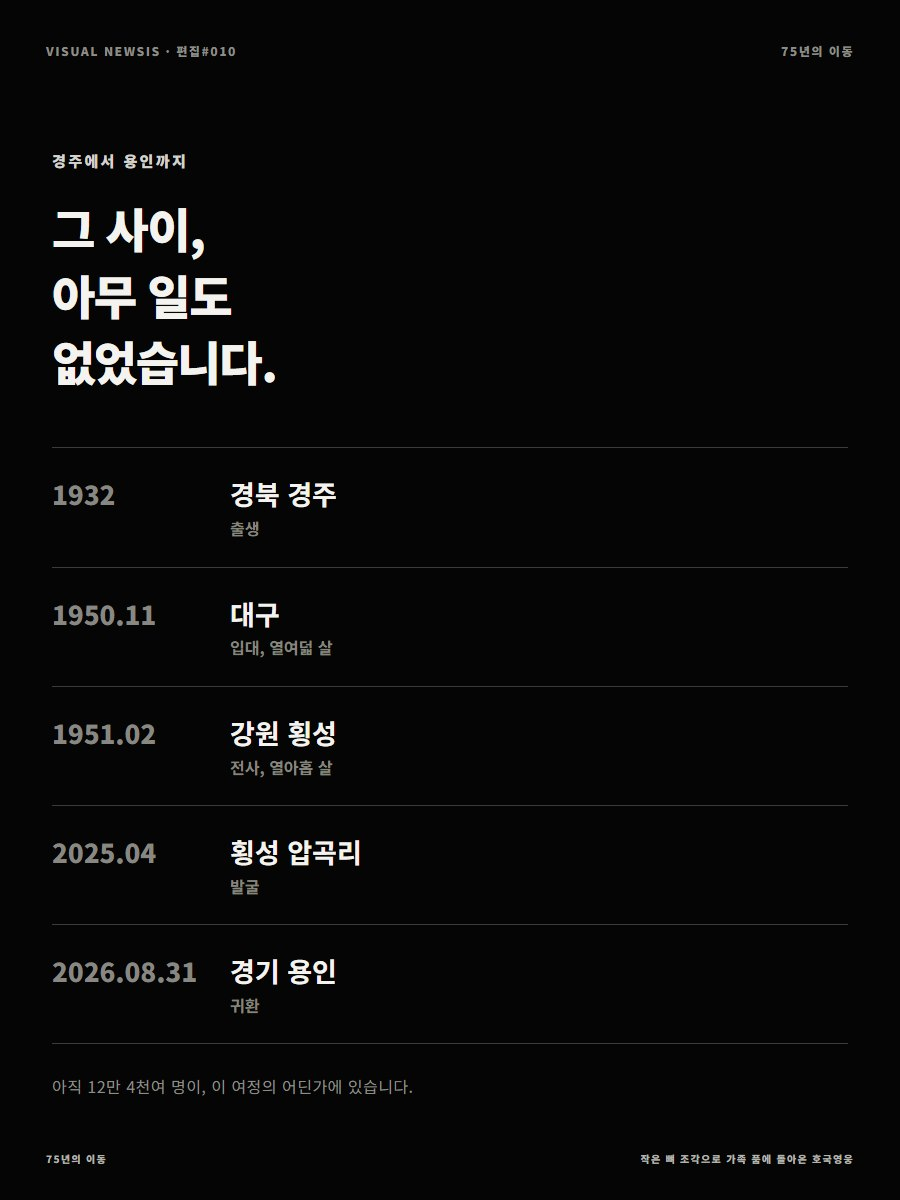
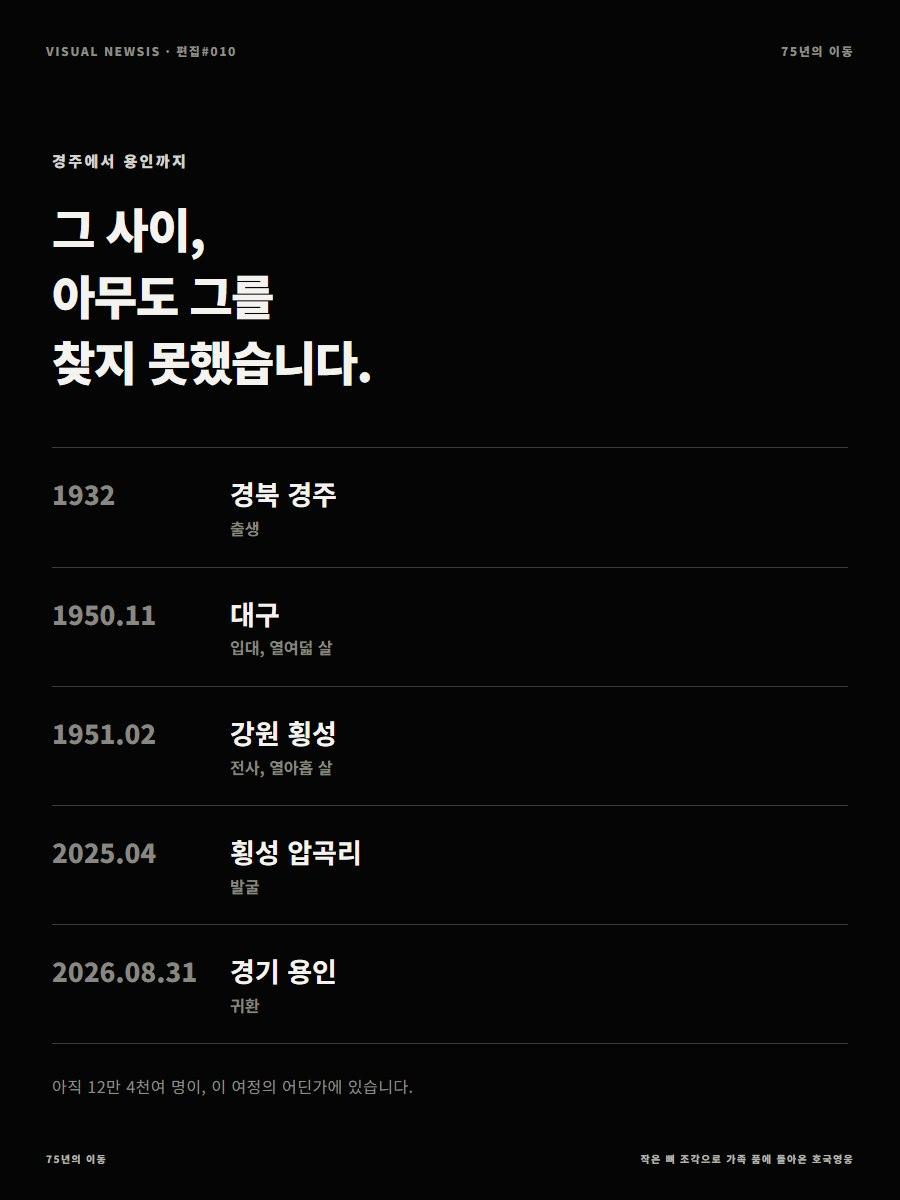
Fix ambiguous lead line on homecoming portal panel 3
"그 사이, 아무 일도 없었습니다" contradicted the timeline shown right
below it (enlistment, death, excavation, homecoming all did happen).
Changed to "아무도 그를 찾지 못했습니다" so it reads as the specific
unresolved wait rather than a blanket "nothing happened" claim.

Changed region(s): [[0.0622, 0.2158, 0.4044, 0.3392]]

diff --git a/portal/homecoming/index.html b/portal/homecoming/index.html
@@ -27,7 +27,7 @@
   </section>
   <section class="panel portrait p3" data-panel="3">
     <div class="top"><span>VISUAL NEWSIS · 편집#010</span><span>75년의 이동</span></div>
-    <div class="copy"><div class="kicker">경주에서 용인까지</div><div class="lead">그 사이,<br>아무 일도<br>없었습니다.</div><div class="records">
+    <div class="copy"><div class="kicker">경주에서 용인까지</div><div class="lead">그 사이,<br>아무도 그를<br>찾지 못했습니다.</div><div class="records">
       <div class="record"><div class="year">1932</div><div class="statement">경북 경주<span>출생</span></div></div>
       <div class="record"><div class="year">1950.11</div><div class="statement">대구<span>입대, 열여덟 살</span></div></div>
       <div class="record"><div class="year">1951.02</div><div class="statement">강원 횡성<span>전사, 열아홉 살</span></div></div>
